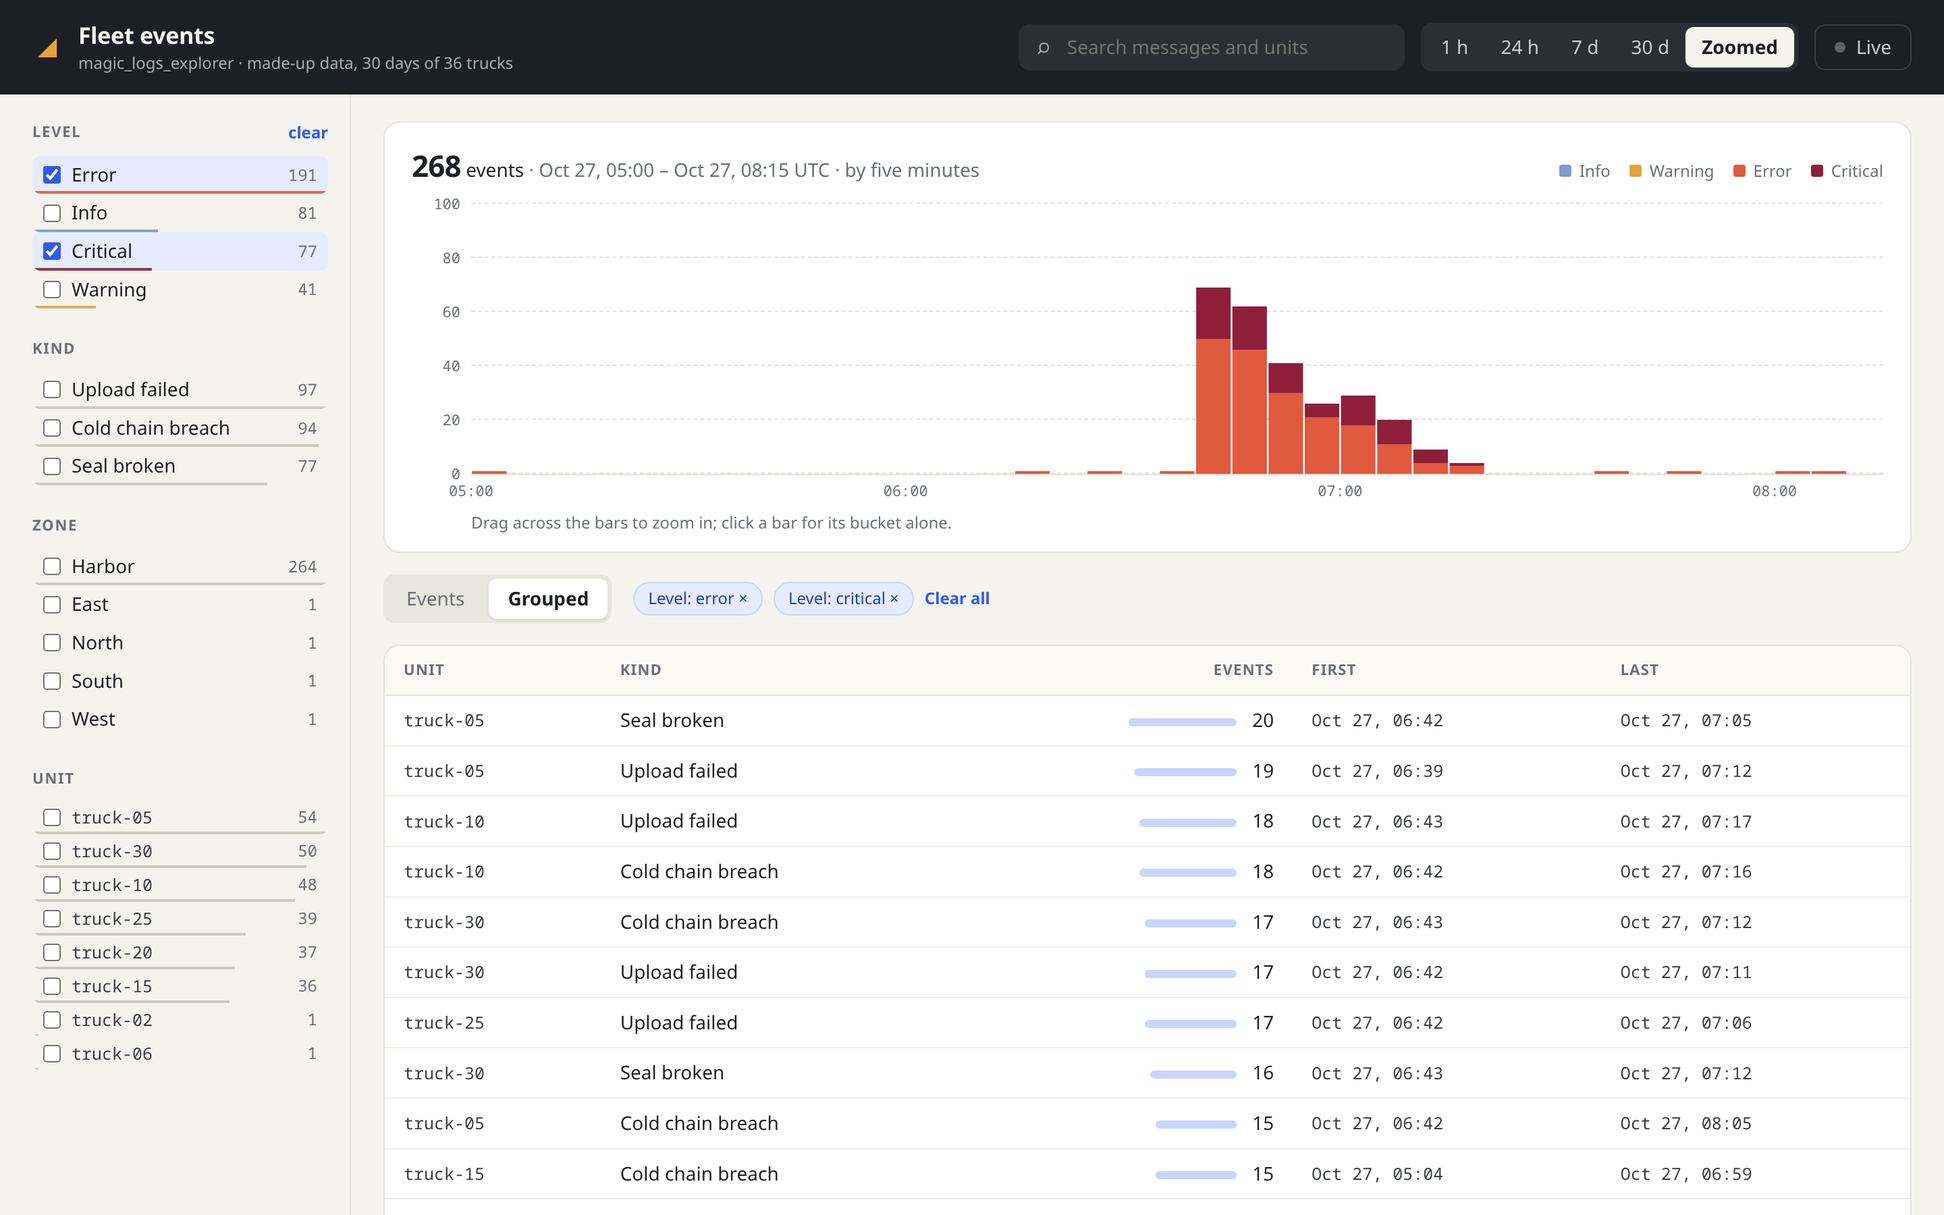
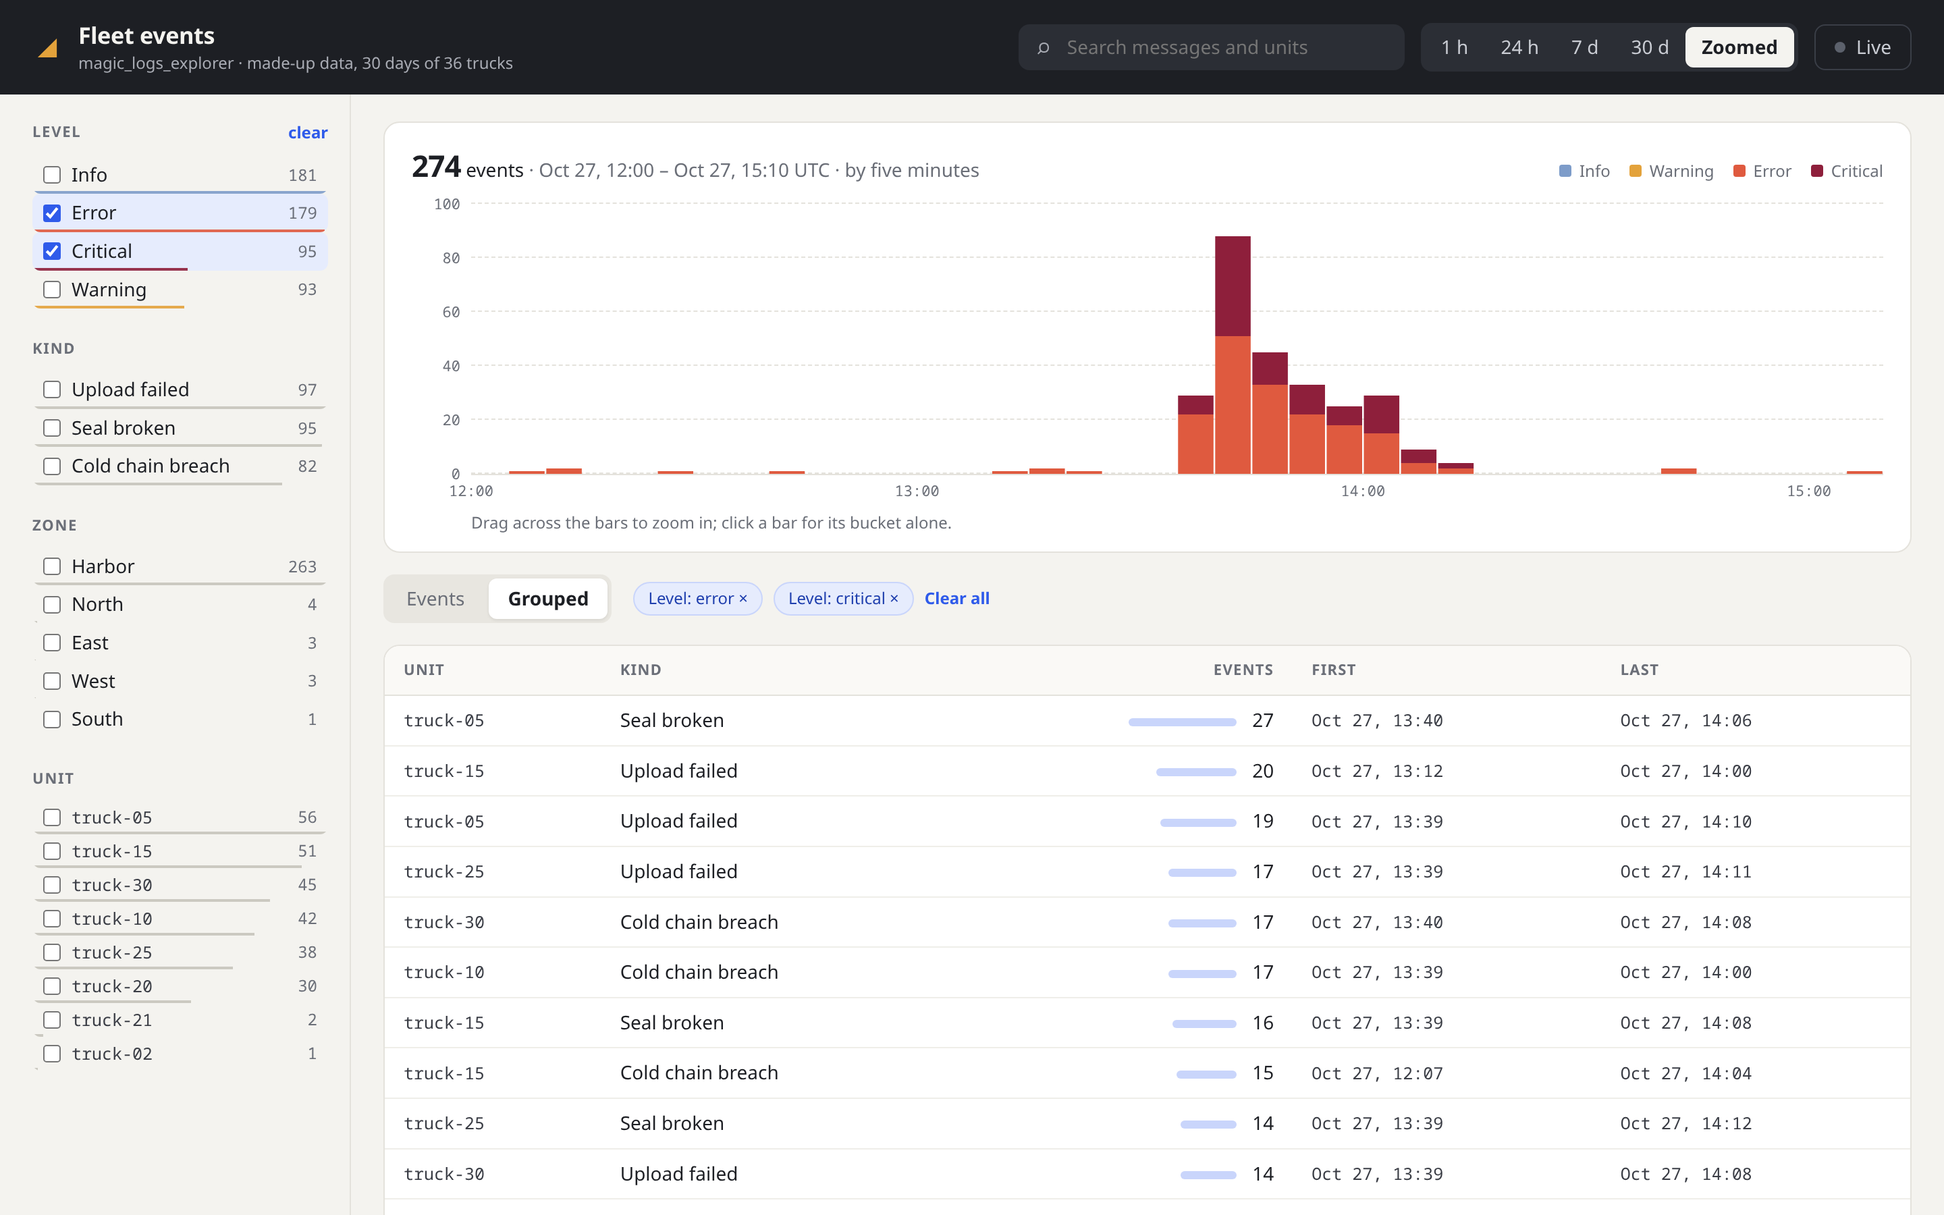
Review round 8: the counts compress; the explorer's last races fixed
A harness of 2,000 random windows in every refresh and compression state,
on both TimescaleDB versions, found no answer that differs from the rows.

The crate:
- every count is compressed after compress_after, as the rows are: the
  hourly counts per top hold a fifth as many rows as the table, and
  grew forever. A late row's refresh writes into the compressed counts
  (tested). TimescaleDB 2.18.0 refuses a compression policy on a count
  refreshed over all of history, so the floor is 2.18.1 (CI's image too)
- docs: four counts and five governed relations; the refresh recipe
  names each hourly count before its daily one; top is counted by hour
  and by day; late-row costs predate the counts per hour and unit

The explorer:
- after a slow round answers, the next wait lasts as long as that round
  took, and one slide more: a server steadily slower than two slides no
  longer loses every other round
- turning live off while a slide waits asks the slid question
- from and to take RFC 3339 with an offset, or '': anything else throws,
  with every store
- urlStore hands frozen values: a change is written, never made in place
- the demo makes no event that has not happened yet

diff --git a/explorer/src/vue/dom.test.ts b/explorer/src/vue/dom.test.ts
@@ -7,7 +7,7 @@ import { listOf, text } from '../core/codec.js'
 import FacetHost from './FacetHost.test.vue'
 import PartsHost from './PartsHost.test.vue'
 import LogRows from './LogRows.vue'
-import { useHistogram } from './parts.js'
+import { useFacet, useHistogram } from './parts.js'
 import { urlStore } from './store.js'
 import { useLogExplorer } from './useLogExplorer.js'
 import { useLogFetch, type LogFetchers } from './useLogFetch.js'
@@ -347,10 +347,12 @@ describe('useLogFetch while a slide waits', () => {
     const { value, scope } = live()
     value.e.live.value = true
     await vi.advanceTimersByTimeAsync(1_100)
+    // Live off asks the slid question at once; the refresh asks once more;
+    // the answers that waited, landing, ask nothing again.
     value.e.live.value = false
     value.e.refresh()
     await vi.advanceTimersByTimeAsync(10_000)
-    expect(value.c.asked.histogram).toBe(2)
+    expect(value.c.asked.histogram).toBe(3)
     scope.stop()
   })
 
@@ -596,6 +598,89 @@ describe('round seven', () => {
     value.q.value = 'x'
     expect(value.kind.value).toEqual([])
     expect(window.location.search).toBe('?kind=door&q=x')
+    scope.stop()
+  })
+})
+
+describe('round eight', () => {
+  it('waits for a server steadily slower than two slides as long as it takes', async () => {
+    const { value, scope } = scoped(() => {
+      const e = useLogExplorer({ fields: ['kind'], liveEvery: 1_000 })
+      const c = counting(0)
+      let landed = 0
+      c.fetchers.histogram = (_q, step, signal) =>
+        new Promise((resolve, reject) => {
+          c.asked.histogram++
+          const t = setTimeout(() => {
+            landed++
+            resolve([{ bucket: new Date(now).toISOString(), level: step.name, count: 1 }])
+          }, 3_500)
+          signal.addEventListener('abort', () => (clearTimeout(t), reject(signal.reason)))
+        })
+      return { e, c, answers: useLogFetch(e, c.fetchers), landed: () => landed }
+    })
+    value.e.live.value = true
+    await vi.advanceTimersByTimeAsync(40_000)
+    // After the first rounds settle, every ask lands: none is thrown away.
+    expect(value.landed()).toBeGreaterThanOrEqual(value.c.asked.histogram - 2)
+    scope.stop()
+  })
+
+  it('asks the slid question when live is turned off while it waits', async () => {
+    const { value, scope } = scoped(() => {
+      const e = useLogExplorer({ fields: ['kind'], liveEvery: 1_000 })
+      const c = counting(0)
+      let first = true
+      c.fetchers.histogram = () => {
+        c.asked.histogram++
+        if (first) return ((first = false), new Promise(() => {}))
+        return Promise.resolve([])
+      }
+      return { e, c, answers: useLogFetch(e, c.fetchers) }
+    })
+    value.e.live.value = true
+    await vi.advanceTimersByTimeAsync(1_100)
+    value.e.live.value = false
+    await vi.advanceTimersByTimeAsync(10)
+    expect(value.c.asked.histogram).toBe(2)
+    expect(value.answers.next.value).toBe('c1')
+    scope.stop()
+  })
+
+  it('refuses an instant written without its offset, with either store', () => {
+    for (const store of [undefined, urlStore()]) {
+      const { value: e, scope } = scoped(() => useLogExplorer({ fields: [], store }))
+      expect(() => (e.from.value = '2026-09-30T10:00')).toThrow(/RFC 3339/)
+      e.from.value = '2026-09-30T10:00:00+02:00'
+      expect(e.from.value).toBe('2026-09-30T08:00:00.000Z')
+      e.from.value = ''
+      expect(e.from.value).toBe('')
+      scope.stop()
+    }
+  })
+
+  it('hands a frozen value, so a change is written, never made in place', () => {
+    const { value, scope } = scoped(() => {
+      const store = urlStore()
+      return { kind: store<string[]>('kind', [], listOf()) }
+    })
+    expect(() => value.kind.value.push('x')).toThrow(TypeError)
+    expect(value.kind.value).toEqual([])
+    value.kind.value = []
+    expect(window.location.search).toBe('')
+    scope.stop()
+  })
+
+  it('chooses one value alone, and clears them, in a facet', () => {
+    const { value, scope } = scoped(() => {
+      const e = useLogExplorer({ fields: ['kind'] })
+      return { e, f: useFacet(e, [{ field: 'kind', value: 'door', count: 1 }], 'kind') }
+    })
+    value.e.toggle('kind', 'gps')
+    value.f.only('door')
+    expect(value.e.fields.kind.value).toEqual(['door'])
+    value.f.clear()
+    expect(value.e.fields.kind.value).toEqual([])
     scope.stop()
   })
 })

diff --git a/explorer/src/vue/useLogFetch.ts b/explorer/src/vue/useLogFetch.ts
@@ -76,7 +76,8 @@ export function useLogFetch<Row>(explorer: LogExplorer, fetchers: LogFetchers<Ro
   let waitedSlides = 0
   // How many slides a wait lasts before it is given up: two, doubled each
   // time one is given up, so a server slower than that is waited for longer
-  // until a whole round answers, and two again once one does.
+  // until a whole round answers; then as many as that round took, and one
+  // more.
   let patience = 2
   let disposed = false
   // Which asking the pages answer: until its first page lands, the pages on
@@ -113,7 +114,9 @@ export function useLogFetch<Row>(explorer: LogExplorer, fetchers: LogFetchers<Ro
         inFlight--
         loading.value[which] = false
         // A whole round answered: the next wait is a short one again.
-        if (inFlight === 0) patience = 2
+        // A whole round answered: the next wait lasts as long as this one
+        // took, and a slide more — two at least.
+        if (inFlight === 0) patience = Math.max(2, waitedSlides + 1)
       }
       if (inFlight === 0 && again && !disposed) {
         again = false
@@ -214,6 +217,12 @@ export function useLogFetch<Row>(explorer: LogExplorer, fetchers: LogFetchers<Ro
       },
       giveBack,
     )
+  })
+
+  // Live turned off while a slide waited: the slid question is asked now,
+  // or it would wait on answers that may never come.
+  watch(explorer.live, (on) => {
+    if (!on && again) askAll()
   })
 
   if (getCurrentScope())

diff --git a/explorer/src/vue/useLogExplorer.ts b/explorer/src/vue/useLogExplorer.ts
@@ -127,8 +127,22 @@ export function useLogExplorer<F extends string>(options: LogExplorerOptions<F>)
     throw new Error(`the explorer keeps two things under "${twice}": give one a \`key\` of its own`)
 
   const preset = store(key('window', 'window'), initial, presetCodec)
-  const from = store(key('from', 'from'), '', instant)
-  const to = store(key('to', 'to'), '', instant)
+  // An instant written to the window is read as the store reads one: RFC
+  // 3339 with its offset, or nothing (''). Anything else is the host's
+  // mistake, said at once rather than read in the browser's zone by one
+  // store and dropped by another.
+  const checked = (piece: Ref<string>, name: string): Ref<string> =>
+    computed({
+      get: () => piece.value,
+      set(value) {
+        const read = value === '' ? '' : instant.parse(value)
+        if (read === undefined)
+          throw new Error(`\`${name}\` is an RFC 3339 instant with its offset, not "${value}"`)
+        piece.value = read
+      },
+    })
+  const from = checked(store(key('from', 'from'), '', instant), 'from')
+  const to = checked(store(key('to', 'to'), '', instant), 'to')
   const search = store(key('search', 'q'), '', text)
   const live = store(key('live', 'live'), false, flag)
 

diff --git a/explorer/src/vue/store.ts b/explorer/src/vue/store.ts
@@ -30,7 +30,12 @@ export function urlStore(): Store {
     // reads it, as they were.
     const raw = computed(() => params.value.get(key))
     return computed<T>({
-      get: () => (raw.value == null ? initial : (codec.parse(raw.value) ?? initial)),
+      // Frozen: the address is the value, so a host that changes what it
+      // read (`push`) is told at once — it writes a new value instead.
+      get: () =>
+        frozen(
+          raw.value == null ? structuredClone(initial) : (codec.parse(raw.value) ?? structuredClone(initial)),
+        ),
       set(value) {
         const text = codec.serialize(value)
         const put = (into: URLSearchParams) => {
@@ -51,4 +56,8 @@ export function urlStore(): Store {
       },
     })
   }
+}
+
+function frozen<T>(value: T): T {
+  return typeof value === 'object' && value !== null ? Object.freeze(value) : value
 }

diff --git a/explorer/demo/server.ts b/explorer/demo/server.ts
@@ -75,7 +75,9 @@ export function fleet(now: number): Event[] {
     const n = Math.floor(rand() * 7 * busy)
     for (let i = 0; i < n; i++) {
       const unit = pick(units)
-      push(at + Math.floor(rand() * 2 * MINUTE), kindOf(), unit, zones[units.indexOf(unit) % zones.length]!)
+      // Nothing still to happen: within the two minutes, and before now.
+      const when = Math.min(at + Math.floor(rand() * 2 * MINUTE), now - 1)
+      push(when, kindOf(), unit, zones[units.indexOf(unit) % zones.length]!)
     }
   }
   const incident = now - 90 * MINUTE

diff --git a/magic_logs/tests/explorer.rs b/magic_logs/tests/explorer.rs
@@ -887,3 +887,57 @@ async fn facets_and_groups_answer_what_the_rows_answer_for_any_window(pool: PgPo
         }
     }
 }
+
+#[sqlx::test(migrations = false)]
+async fn compressed_counts_take_late_rows_and_answer_what_the_rows_answer(pool: PgPool) {
+    setup(&pool).await;
+    let spec = Event::SPEC;
+    // The rows and every count compressed, as their policies would.
+    let mut relations = vec!["private.events".to_owned()];
+    for tier in [Tier::Hourly, Tier::Daily, Tier::HourlyTop, Tier::DailyTop] {
+        relations.push(format!("private.{}", spec.relation(tier)));
+    }
+    for relation in &relations {
+        let compressed: i64 = sqlx::query_scalar(&format!(
+            "SELECT count(compress_chunk(c, if_not_compressed => true)) FROM show_chunks('{relation}') c"
+        ))
+        .fetch_one(&pool)
+        .await
+        .unwrap();
+        assert!(compressed > 0, "{relation}");
+    }
+    // Late rows into a compressed day, then the refresh the policies run.
+    sqlx::raw_sql(&format!(
+        "INSERT INTO private.events SELECT gen_random_uuid(), '{}'::timestamptz + n * interval '1 minute', \
+         '{TENANT}', '00000000-0000-0000-0000-000000000002', 'Error', 'gps', \
+         '00000000-0000-0000-0000-0000000000a3', NULL, 'unit 3 came late' FROM generate_series(1, 90) n",
+        (day() + Duration::days(1) + Duration::hours(7)).to_rfc3339()
+    ))
+    .execute(&pool)
+    .await
+    .unwrap();
+    refresh(&pool).await;
+    let filter = Filter::new(
+        day() + Duration::minutes(31),
+        day() + Duration::days(3) + Duration::hours(2) + Duration::minutes(5),
+    );
+    let (counted, raw) = both_facets(&pool, &filter, &["level", "kind", "unit_id"]).await;
+    assert_eq!(counted, raw);
+    let (counted, raw) = both_histograms(&pool, &filter, Duration::days(1)).await;
+    assert_eq!(counted, raw);
+    let mut counted: Vec<Group> = grouped(&spec, &filter, "kind", 100)
+        .unwrap()
+        .build_query_as()
+        .fetch_all(&pool)
+        .await
+        .unwrap();
+    let mut raw: Vec<Group> = grouped(&spec, &filter.clone().search("unit"), "kind", 100)
+        .unwrap()
+        .build_query_as()
+        .fetch_all(&pool)
+        .await
+        .unwrap();
+    counted.sort_by(|a, b| (&a.top, &a.value).cmp(&(&b.top, &b.value)));
+    raw.sort_by(|a, b| (&a.top, &a.value).cmp(&(&b.top, &b.value)));
+    assert_eq!(counted, raw);
+}

diff --git a/magic_logs/src/migration.rs b/magic_logs/src/migration.rs
@@ -178,6 +178,25 @@ pub fn migration(spec: &Spec, govern: impl Fn(&Governed) -> String) -> String {
     }
     push(policies.join("\n"));
 
+    // The counts compress as the rows do: the hourly per `top` hold a fifth
+    // as many rows as the table. A late row's refresh writes into their
+    // compressed chunks too.
+    let compressed: Vec<String> = spec
+        .tiers()
+        .into_iter()
+        .filter(|t| *t != Tier::Raw)
+        .map(|tier| {
+            let count = qualified(spec.schema, &spec.relation(tier));
+            format!(
+                "ALTER MATERIALIZED VIEW {count} SET (timescaledb.enable_columnstore = true);\n\
+                 CALL add_columnstore_policy({}, after => INTERVAL {});",
+                literal(&count),
+                literal(st.compress_after)
+            )
+        })
+        .collect();
+    push(compressed.join("\n"));
+
     let governed: Vec<String> = spec
         .tiers()
         .into_iter()

diff --git a/magic_logs/src/query.rs b/magic_logs/src/query.rs
@@ -1,6 +1,7 @@
-//! The explorer's four questions, each read from the cheapest table that
-//! answers it: the rows for a page, and the counts — by hour, by day, by day
-//! and `top` — unless the filter names something they do not keep.
+//! The explorer's four questions, each read from the cheapest tables that
+//! answer it: the rows for a page, and the counts — by hour and by day, and
+//! by hour and by day per `top` — unless the filter names something they do
+//! not keep.
 
 use chrono::{DateTime, Duration, Utc};
 use sqlx::{Postgres, QueryBuilder};

diff --git a/magic_logs/src/spec.rs b/magic_logs/src/spec.rs
@@ -20,7 +20,7 @@ pub struct Spec {
     pub scope: Option<&'static str>,
     /// The ordered column the histogram is stacked by.
     pub level: Option<Column>,
-    /// The entity counted on its own, per day: the grouped view's rows.
+    /// The entity counted on its own, by hour and by day: the grouped view's rows.
     pub top: Option<Column>,
     /// Every column a filter may name, in declaration order.
     pub fields: &'static [Field],

diff --git a/explorer/README.md b/explorer/README.md
@@ -115,9 +115,10 @@ How it behaves:
 - **Live slides a named window** every `liveEvery` ms (10 s). A slide while
   answers are on their way waits for them and asks once after, so a server
   slower than the slide still answers: a wait is given up after two
-  slides, then four, then eight, until a whole round answers. Anything the
-  reader changes is asked at once, and the answers on their way are
-  dropped. Reading back (`more`)
+  slides, then four, then eight, until a whole round answers — and after
+  one does, as many slides as that round took and one more. Anything the
+  reader changes, or turning live off, is asked at once, and the answers on
+  their way are dropped. Reading back (`more`)
   and zooming stop live: the window holds still while a reader reads it.
 - **Give your fetches a timeout.** A live wait is given up, but an answer
   that never comes holds `loading` until the next question: `fetch(url, { signal: AbortSignal.any([signal, AbortSignal.timeout(15_000)]) })`.
@@ -138,8 +139,10 @@ How it behaves:
   written directly, in any order and in separate ticks (a date picker): the
   store keeps what was written, and `shown` says which window is in effect —
   `custom` once the two instants read as one, the preset shown first until
-  then. Draw a preset control from `shown`, not `preset`. `zoom` and
-  `choose` write all three for you.
+  then. Draw a preset control from `shown`, not `preset`. An instant is
+  written as RFC 3339 with its offset (or `''` to clear it); anything else
+  throws, the same with every store. `zoom` and `choose` write all three
+  for you.
 - **In the browser.** `urlStore()` reads the address and `useLogFetch`
   asks as soon as it is called: on a server render, call them on the
   client (`onMounted`, or a client-only component), or the markup the
@@ -151,6 +154,9 @@ How it behaves:
   every bar is as wide as its step; a live window's last bar holds what has
   come so far. Label the axis and brush on `geometry.range`, not on the
   window asked. A brush or `zoomTo` ends no later than the window.
+- **A stored value is written, not changed.** `urlStore()` hands its values
+  frozen (the address is the value): write a new array rather than
+  `push`ing into the one read.
 - **One key, one thing.** A field stored under `window`, `from`, `to`, `q`
   or `live` — or two fields under one key — is refused when the explorer
   is made: give it a `key` of its own.

diff --git a/HOW_IT_WORKS.md b/HOW_IT_WORKS.md
@@ -51,8 +51,9 @@ the last hour.
 
 A refresh of your own (after a backfill, say) ends where the policy's
 would: `CALL refresh_continuous_aggregate('…_hourly', NULL, now() -
-interval '1 hour')`, the daily one at `now() - interval '1 day'`, hourly
-first. One that ends later (`NULL`, or in the future) moves the watermark
+interval '1 hour')`, the daily one at `now() - interval '1 day'` — each
+hourly count before its daily one, the pair per `top` too (the fleet
+example's `set_up` does it). One that ends later (`NULL`, or in the future) moves the watermark
 past now: a row that arrives in a bucket already counted is not read from
 the rows, and waits for the policy to reach that bucket — up to two days
 for the daily counts.
@@ -165,7 +166,12 @@ Storage: an uncompressed day is 4.2 GB, of which 1.3 GB is index;
 compressed, 0.4 GB. Thirty days, two of them uncompressed, are 17 GB. The
 counts: 92,000 hourly rows a day, 183,000 per day and unit, and 2.2 million
 per hour and unit — about a fifth of the rows, 275 MB a day before
-compression. Loading a
+compression. Every count is compressed after `compress_after`, as the
+rows are (TimescaleDB 2.18.1 is the first that compresses a count
+refreshed over all of history); a late row's refresh writes into its
+compressed chunks. The late-row costs above were measured before the
+counts per hour and unit existed: a late row now recounts those too.
+Loading a
 10-million-row day takes about 100 s; compressing it, 25 s. Ingesting
 through the governed view with foreign keys checked: 58,000 rows a second.
 

diff --git a/README.md b/README.md
@@ -48,7 +48,7 @@ the window, the facets, the histogram's geometry and its brush, the pages
 
 ## Requirements
 
-- PostgreSQL 14 or later, with TimescaleDB 2.18 or later under its
+- PostgreSQL 14 or later, with TimescaleDB 2.18.1 or later under its
   community license (the columnstore and continuous aggregates are not in
   the Apache-2.0-only build), preloaded.
 - Rust 1.85 or later; sqlx 0.8.
@@ -163,8 +163,9 @@ and a relation or index name past PostgreSQL's 63 bytes. A field named
 `migration` prints the SQL, one transaction's worth, for the table as it
 stands: the hypertable, the indexes a page reads (`time DESC, id DESC`,
 and one per `indexed` field and the `top`), the columnstore and its
-policy, the three counts and their refresh policies — and, for each of
-the four relations, whatever `govern` writes. Run it from your own
+policy, the four counts with their refresh and compression policies —
+and, for each of the five relations (the table and its counts), whatever
+`govern` writes. Run it from your own
 migrations; the [golden copy](magic_logs/tests/golden/migration.sql) shows
 what it writes.
 
